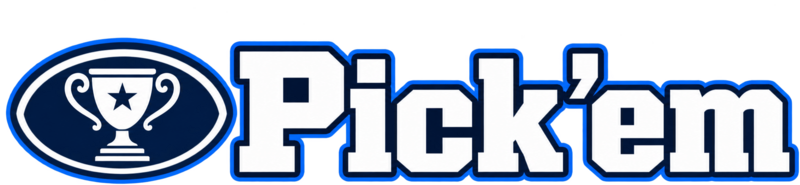
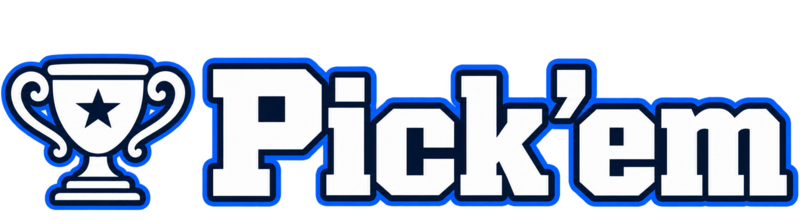
Refresh Pick'em graphics and make league switching seamless from Settings

diff --git a/components/PickemAppBase.tsx b/components/PickemAppBase.tsx
@@ -14,6 +14,7 @@ import { basketballLockTime, basketballWeek, basketballWeekBounds, basketballSea
 import BasketballGameDetails from "@/components/BasketballGameDetails";
 import { formatOrdinalDate, formatUppercaseOrdinalDate } from "@/lib/displayDates";
 import NextImage from "next/image";
+import { useRouter } from "next/navigation";
 
 import { Fragment, useCallback, useEffect, useLayoutEffect, useRef, useState, type PointerEvent as ReactPointerEvent } from "react";
 import { Check, ChevronDown, ChevronUp, CircleCheckBig, CircleDollarSign, FlaskConical, LoaderCircle, Lock, Send, Settings as SettingsIcon, SquareCheck, Trash2, Trophy, X, Zap } from "lucide-react";
@@ -37,6 +38,8 @@ import GroupMoneyControls from "@/components/GroupMoneyControls";
 import { moveConfidencePick, normalizeConfidenceCard } from "@/lib/confidencePoints";
 import { ruleSections, type AppSlug, type GroupRules } from "@/lib/rulePresentation";
 import { appLoginPath } from "@/lib/appIdentity";
+import type { LeagueMembership } from "@/lib/leagueAccess";
+import { leagueTabDestination, leagueTabFromQuery } from "@/lib/leagueNavigation";
 import { sideBetBettorForTeam, sideBetLedgerPerspective, sideBetOfferIsPending, sideBetPerspective, sideBetResponseSummary, sideBetsForView } from "@/lib/sideBetPresentation";
 import { orderCardPicks } from "@/lib/cardOrdering";
 import { teamAbbreviatedName, teamDisplayName } from "@/lib/teamNames";
@@ -170,8 +173,10 @@ import {
 } from "@/components/PickemSideBetViews";
 
 export default function PickemApp({ appSlug = "shaw-family" }: { appSlug?: AppSlug }) {
+  const router = useRouter();
   const loginPath = appLoginPath(appSlug);
   const [tab, setTab] = useState<Tab>("picks");
+  const [selectedLeague, setSelectedLeague] = useState<LeagueMembership | null>(null);
   const [picksView, setPicksView] = useState<PicksView>("board");
   const [cardView, setCardView] = useState<CardView>("mine");
   const [standingsView, setStandingsView] = useState<StandingsView>("standings");
@@ -414,6 +419,25 @@ export default function PickemApp({ appSlug = "shaw-family" }: { appSlug?: AppSl
     window.history.replaceState({}, "", `${current.pathname}${current.search}${current.hash}`);
   }, []);
 
+  // Preserve the selected destination tab when moving between league routes.
+  useEffect(() => {
+    const url = new URL(window.location.href);
+    const requestedTab = leagueTabFromQuery(url.searchParams.get("view"));
+    if (!requestedTab) return;
+    setTab(requestedTab);
+    url.searchParams.delete("view");
+    window.history.replaceState(window.history.state, "", `${url.pathname}${url.search}${url.hash}`);
+  }, [appSlug]);
+
+  const chooseNavTab = useCallback((nextTab: Tab) => {
+    const destination = leagueTabDestination(appSlug, selectedLeague, nextTab);
+    if (destination) {
+      router.push(destination);
+      return;
+    }
+    setTab(nextTab);
+  }, [appSlug, router, selectedLeague]);
+
   const loadSequence = useRef(0);
   const load = useCallback(async (nextWeek: number | null = dataRef.current?.week ?? null) => {
     const sequence = ++loadSequence.current;
@@ -425,7 +449,7 @@ export default function PickemApp({ appSlug = "shaw-family" }: { appSlug?: AppSl
     }
     const cachedPayload = isInitialLoad ? readCachedAppData(appSlug, nextWeek) : null;
     if (cachedPayload) {
-      await preloadInitialBoardLogos(cachedPayload);
+      void preloadInitialBoardLogos(cachedPayload);
       const cachedAt = Date.now();
       const cachedWeekIsOpen = !cachedPayload.weekOpenTime || new Date(cachedPayload.weekOpenTime).getTime() <= cachedAt;
       dataRef.current = cachedPayload;
@@ -1291,7 +1315,7 @@ export default function PickemApp({ appSlug = "shaw-family" }: { appSlug?: AppSl
 
     <nav className="primary-nav" aria-label="Main navigation">
       <div className="primary-nav-inner">
-        {primaryNav.map((item) => <button key={item.id} aria-current={tab === item.id ? "page" : undefined} className={tab === item.id ? "active" : ""} onClick={() => setTab(item.id)}><span className={`nav-icon nav-icon-${item.id}`}><item.icon size={19} /><NotificationBadge count={navNotificationCounts[item.id] || 0} className="nav-notification-badge" /></span><span>{item.label}</span></button>)}
+        {primaryNav.map((item) => <button key={item.id} aria-current={tab === item.id ? "page" : undefined} className={tab === item.id ? "active" : ""} onClick={() => chooseNavTab(item.id)}><span className={`nav-icon nav-icon-${item.id}`}><item.icon size={19} /><NotificationBadge count={navNotificationCounts[item.id] || 0} className="nav-notification-badge" /></span><span>{item.label}</span></button>)}
       </div>
     </nav>
 
@@ -1460,10 +1484,12 @@ export default function PickemApp({ appSlug = "shaw-family" }: { appSlug?: AppSl
       {tab === "settings" && <SettingsPanel
         appSlug={appSlug}
         currentUser={currentUser}
-        leagueName={data.activeGroup?.name}
+        leagueName={selectedLeague?.name || data.activeGroup?.name}
         rules={displayedRules}
         loginPath={loginPath}
         onCountsChanged={updateNotificationCounts}
+        selectedLeagueSlug={selectedLeague?.slug || appSlug}
+        onLeagueSelect={(league) => setSelectedLeague(league.slug === appSlug ? null : league)}
       />}
     </main>
     {currentPreviewGame && (isBasketballLeague(currentPreviewGame.league)

diff --git a/components/LeagueSwitcher.tsx b/components/LeagueSwitcher.tsx
@@ -2,12 +2,36 @@
 
 import { useEffect, useState } from "react";
 import Image from "next/image";
+import Link from "next/link";
+import { useRouter } from "next/navigation";
 import { Check, ChevronRight, Layers3 } from "lucide-react";
 import { getClientSessionToken } from "@/lib/clientSession";
+import { writeCachedAppData, type AppData } from "@/components/PickemPresentationShared";
 import type { LeagueMembership } from "@/lib/leagueAccess";
 import type { PickemAppSlug } from "@/lib/authUsers";
 
-export default function LeagueSwitcher({ activeSlug }: { activeSlug: PickemAppSlug }) {
+async function warmLeagueData(league: LeagueMembership) {
+  const token = getClientSessionToken();
+  if (!token) return;
+  try {
+    const response = await fetch("/api/app-data", {
+      headers: { Authorization: `Bearer ${token}`, "x-pickem-group": league.slug },
+      cache: "no-store"
+    });
+    if (response.ok && token === getClientSessionToken()) {
+      writeCachedAppData(league.slug, null, await response.json() as AppData);
+    }
+  } catch {
+    // Normal navigation still works if warming this league fails.
+  }
+}
+
+export default function LeagueSwitcher({ activeSlug, selectedSlug, onSelect }: {
+  activeSlug: PickemAppSlug;
+  selectedSlug: PickemAppSlug;
+  onSelect: (league: LeagueMembership) => void;
+}) {
+  const router = useRouter();
   const [leagues, setLeagues] = useState<LeagueMembership[] | null>(null);
 
   useEffect(() => {
@@ -18,21 +42,35 @@ export default function LeagueSwitcher({ activeSlug }: { activeSlug: PickemAppSl
       .then(async (response) => {
         if (!response.ok) return;
         const payload = await response.json();
-        if (!controller.signal.aborted && Array.isArray(payload.leagues)) setLeagues(payload.leagues);
+        if (!controller.signal.aborted && Array.isArray(payload.leagues)) {
+          setLeagues(payload.leagues);
+          for (const league of payload.leagues as LeagueMembership[]) {
+            if (league.slug !== activeSlug) router.prefetch(league.homePath);
+          }
+        }
       })
       .catch(() => undefined);
     return () => controller.abort();
-  }, []);
+  }, [activeSlug, router]);
+
+  function selectLeague(league: LeagueMembership) {
+    onSelect(league);
+    if (league.slug !== activeSlug) {
+      router.prefetch(league.homePath);
+      void warmLeagueData(league);
+    }
+  }
 
   return <div className="settings-section settings-league-switcher">
     <h3>My Leagues</h3>
     <div className="settings-card">
-      <div className="settings-row-heading"><div className="settings-leading-icon"><Layers3 size={17} /></div><div className="settings-row-copy"><strong>Switch League</strong><span>Only leagues you belong to are listed.</span></div></div>
-      {leagues?.map((league) => <a key={league.slug} href={league.homePath} aria-current={league.slug === activeSlug ? "page" : undefined} className={`settings-league-link ${league.slug === activeSlug ? "active" : ""}`}>
-        <span className="settings-league-sport-mark" aria-hidden="true">{league.sport === "Basketball" ? <Image src="/league-basketball.png" alt="" width={22} height={22} unoptimized /> : <span className="flat-football-mark" />}</span><strong>{league.name}</strong>{league.slug === activeSlug ? <><small>Current</small><Check size={16} /></> : <ChevronRight size={17} />}
-      </a>)}
+      <div className="settings-row-heading"><div className="settings-leading-icon"><Layers3 size={17} /></div><div className="settings-row-copy"><strong>Switch League</strong><span>Choose a league, then open a tab below.</span></div></div>
+      {leagues?.map((league) => <button key={league.slug} type="button" onClick={() => selectLeague(league)} aria-pressed={league.slug === selectedSlug} className={`settings-league-link ${league.slug === selectedSlug ? "active" : ""}`}>
+        <span className={`settings-league-sport-mark ${league.sport.toLowerCase()}`} aria-hidden="true"><Image src={league.sport === "Basketball" ? "/league-basketball.png" : "/league-football.png"} alt="" width={22} height={22} unoptimized /></span><strong>{league.name}</strong>{league.slug === selectedSlug ? <><small>{league.slug === activeSlug ? "Current" : "Selected"}</small><Check size={16} /></> : <ChevronRight size={17} />}
+      </button>)}
       {!leagues && <div className="settings-league-loading">Loading leagues…</div>}
-      <a className="settings-league-hub-link" href="/leagues">Open my league home <ChevronRight size={16} /></a>
+      {selectedSlug !== activeSlug && <p className="settings-league-switch-note">Ready to switch — tap Picks, My Card, or Standings below.</p>}
+      <Link className="settings-league-hub-link" href="/leagues">Open my league home <ChevronRight size={16} /></Link>
     </div>
   </div>;
 }

diff --git a/app/ui-details.css b/app/ui-details.css
@@ -5662,9 +5662,9 @@ button, input, select, textarea {
 .league-hub-open { display: grid; width: 29px; height: 29px; flex: 0 0 29px; place-items: center; border: 1px solid var(--line); border-radius: var(--ui-radius-action); color: var(--blue-dark); background: var(--surface-soft); }
 .league-hub-sport { display: grid; width: 52px; height: 52px; flex: 0 0 52px; place-items: center; }
 .league-hub-sport img { display: block; width: 100%; height: 100%; object-fit: contain; }
-.flat-football-mark { display: block; width: 100%; height: 100%; background: url("/football-pickem-wordmark.png") left center / 571.5% auto no-repeat; }
+.league-hub-sport.basketball img { width: 44px; height: 44px; }
 .basketball-header-brand { position: relative; }
-.basketball-header-brand::after { position: absolute; top: 50%; left: 0; width: 41px; height: 41px; transform: translateY(-50%); background: var(--graphite) url("/league-basketball.png") center / contain no-repeat; content: ""; pointer-events: none; }
+.basketball-header-brand::after { position: absolute; top: 50%; left: 0; width: 41px; height: 41px; transform: translateY(-50%); background: var(--graphite) url("/league-basketball.png") center / 35px 35px no-repeat; content: ""; pointer-events: none; }
 .league-hub-card-copy { display: grid; flex: 1; gap: 4px; min-width: 0; }
 .league-hub-card-copy strong { font-size: 14px; font-weight: 850; line-height: 1.25; overflow-wrap: anywhere; }
 .league-hub-card-copy > span { color: var(--muted); font-family: var(--font-display); font-size: 11px; font-weight: 600; }
@@ -5686,13 +5686,16 @@ button, input, select, textarea {
 .league-login-card .league-login-note { margin: 24px 0 0; color: var(--muted); font-size: 12px; }
 .settings-league-switcher .settings-card { overflow: hidden; }
 .settings-league-switcher .settings-row-heading { border-bottom: 1px solid var(--line); }
-.settings-league-link { display: flex; min-height: 49px; align-items: center; gap: 11px; padding: 9px 13px; border-bottom: 1px solid var(--line); color: var(--ink); font-size: 13px; text-decoration: none; }
+.settings-league-link { display: flex; width: 100%; min-height: 49px; align-items: center; gap: 11px; padding: 9px 13px; border: 0; border-bottom: 1px solid var(--line); color: var(--ink); background: var(--panel); font-size: 13px; text-align: left; cursor: pointer; transition: background-color 140ms ease; }
 .settings-league-sport-mark { display: block; width: 22px; height: 22px; flex: 0 0 22px; }
 .settings-league-sport-mark img { display: block; width: 100%; height: 100%; object-fit: contain; }
+.settings-league-sport-mark.basketball img { width: 19px; height: 19px; margin: auto; }
 .settings-league-link > span { font-size: 19px; }
 .settings-league-link strong { flex: 1; font-weight: 800; }
 .settings-league-link small { color: var(--blue-dark); font-size: 10px; font-weight: 800; }
 .settings-league-link.active { background: var(--blue-soft); }
+.settings-league-link:focus-visible { outline: 2px solid var(--blue); outline-offset: -2px; }
+.settings-league-switch-note { padding: 9px 13px; border-bottom: 1px solid var(--line); color: var(--blue-dark); background: var(--surface-soft); font-size: 11px; font-weight: 700; }
 .settings-league-link > svg { color: var(--blue-dark); }
 .settings-league-loading { padding: 13px; color: var(--muted); font-size: 12px; }
 .settings-league-hub-link { display: flex; min-height: 44px; align-items: center; justify-content: space-between; padding: 9px 13px; color: var(--blue-dark); font-size: 12px; font-weight: 800; text-decoration: none; }

diff --git a/components/LeagueHub.tsx b/components/LeagueHub.tsx
@@ -2,6 +2,7 @@
 
 import { useEffect, useState } from "react";
 import Image from "next/image";
+import Link from "next/link";
 import { ArrowRight, LogOut } from "lucide-react";
 import { clearClientSession, getClientSessionToken } from "@/lib/clientSession";
 import type { LeagueMembership } from "@/lib/leagueAccess";
@@ -62,11 +63,11 @@ export default function LeagueHub() {
         {!result && <p className="league-hub-status" role="status">Loading your leagues…</p>}
         {result && !result.ok && <p className="league-hub-status error" role="alert">{result.error}</p>}
         {result?.ok && !result.leagues?.length && <p className="league-hub-status">No active leagues are assigned to this account. Ask Kameron to check your membership.</p>}
-        {result?.leagues?.map((league) => <a className="league-hub-card" href={league.homePath} key={league.slug}>
-          <span className={`league-hub-sport ${league.sport.toLowerCase()}`} aria-hidden="true">{league.sport === "Basketball" ? <Image src="/league-basketball.png" alt="" width={54} height={54} unoptimized /> : <span className="flat-football-mark" />}</span>
+        {result?.leagues?.map((league) => <Link className="league-hub-card" href={league.homePath} key={league.slug}>
+          <span className={`league-hub-sport ${league.sport.toLowerCase()}`} aria-hidden="true"><Image src={league.sport === "Basketball" ? "/league-basketball.png" : "/league-football.png"} alt="" width={54} height={54} unoptimized /></span>
           <span className="league-hub-card-copy"><strong>{league.name}</strong><span>{league.sport === "Basketball" ? "CBB/NBA" : "CFB/NFL"}</span></span>
           <span className="league-hub-open"><ArrowRight size={19} aria-hidden="true" /></span>
-        </a>)}
+        </Link>)}
       </section>
     </div>
   </main>;

diff --git a/components/SettingsPanel.tsx b/components/SettingsPanel.tsx
@@ -8,6 +8,7 @@ import NumericText from "@/components/NumericText";
 import PushNotificationControls from "@/components/PushNotificationControls";
 import AppOpenActivity from "@/components/AppOpenActivity";
 import LeagueSwitcher from "@/components/LeagueSwitcher";
+import type { LeagueMembership } from "@/lib/leagueAccess";
 import { clearClientSession } from "@/lib/clientSession";
 
 type Theme = "light" | "dark";
@@ -34,7 +35,9 @@ export default function SettingsPanel({
   leagueName,
   rules,
   loginPath,
-  onCountsChanged
+  onCountsChanged,
+  selectedLeagueSlug,
+  onLeagueSelect
 }: {
   appSlug: AppSlug;
   currentUser: Profile;
@@ -42,6 +45,8 @@ export default function SettingsPanel({
   rules: RuleSection[];
   loginPath: string;
   onCountsChanged: (counts: Record<string, number>) => void;
+  selectedLeagueSlug: AppSlug;
+  onLeagueSelect: (league: LeagueMembership) => void;
 }) {
   const [theme, setTheme] = useState<Theme>("light");
   const [newPassword, setNewPassword] = useState("");
@@ -120,7 +125,7 @@ export default function SettingsPanel({
   return <section className="panel settings-panel">
     <div className="section-title settings-page-title"><div><h2>Settings</h2><p>{leagueName || "League and account preferences"}</p></div></div>
 
-    <LeagueSwitcher activeSlug={appSlug} />
+    <LeagueSwitcher activeSlug={appSlug} selectedSlug={selectedLeagueSlug} onSelect={onLeagueSelect} />
 
     <div className="settings-section">
       <h3>Profile</h3>

diff --git a/tests/leagueNavigation.test.ts b/tests/leagueNavigation.test.ts
@@ -1,0 +1,21 @@
+import test from "node:test";
+import assert from "node:assert/strict";
+import { leagueTabDestination, leagueTabFromQuery } from "../lib/leagueNavigation.ts";
+
+const basketball = { slug: "friends-basketball" as const, homePath: "/friends-basketball" };
+
+test("selecting a league in settings does not navigate until another tab opens", () => {
+  assert.equal(leagueTabDestination("shaw-family", basketball, "settings"), null);
+  assert.equal(leagueTabDestination("shaw-family", basketball, "picks"), "/friends-basketball?view=picks");
+  assert.equal(leagueTabDestination("shaw-family", basketball, "card"), "/friends-basketball?view=card");
+  assert.equal(leagueTabDestination("shaw-family", basketball, "standings"), "/friends-basketball?view=standings");
+  assert.equal(leagueTabDestination("friends-basketball", basketball, "picks"), null);
+  assert.equal(leagueTabDestination("shaw-family", null, "card"), null);
+});
+
+test("destination tab is limited to the app's real navigation tabs", () => {
+  assert.equal(leagueTabFromQuery("card"), "card");
+  assert.equal(leagueTabFromQuery("settings"), "settings");
+  assert.equal(leagueTabFromQuery("something-else"), null);
+  assert.equal(leagueTabFromQuery(null), null);
+});

diff --git a/lib/leagueNavigation.ts b/lib/leagueNavigation.ts
@@ -1,0 +1,16 @@
+import type { PickemAppSlug } from "./authUsers.ts";
+
+export type LeagueTab = "picks" | "card" | "standings" | "settings";
+
+export function leagueTabDestination(
+  activeSlug: PickemAppSlug,
+  selected: { slug: PickemAppSlug; homePath: string } | null,
+  tab: LeagueTab
+) {
+  if (!selected || selected.slug === activeSlug || tab === "settings") return null;
+  return `${selected.homePath}?view=${tab}`;
+}
+
+export function leagueTabFromQuery(value: string | null): LeagueTab | null {
+  return value === "picks" || value === "card" || value === "standings" || value === "settings" ? value : null;
+}
